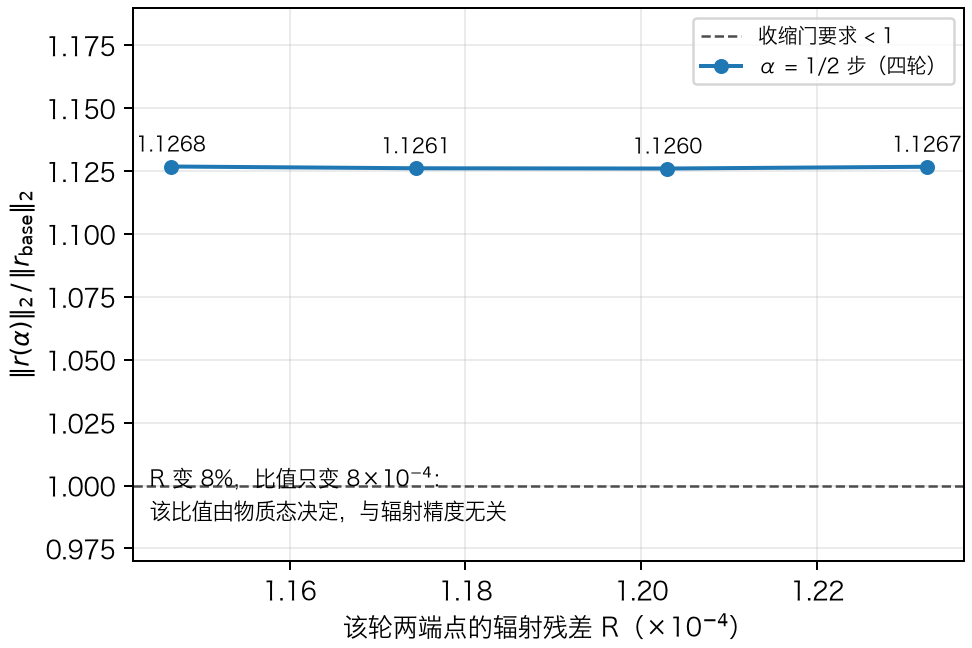
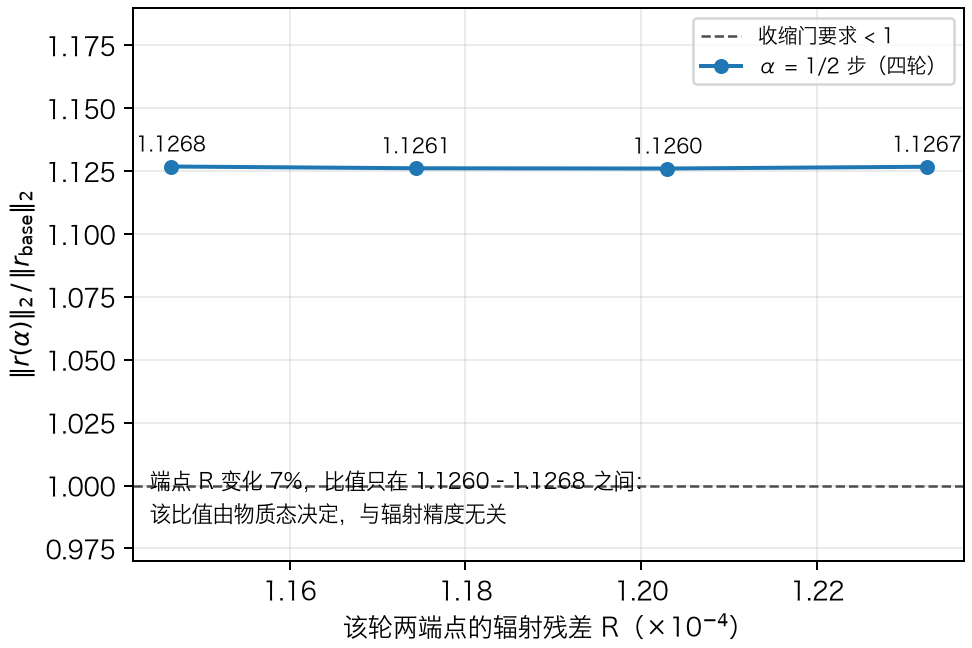
Lecture: apply the three-pass review (numbers, logical closure, physical wording) and record it

Changed region(s): [[0.1543, 0.7099, 0.5247, 0.8333], [0.5556, 0.7099, 0.6481, 0.7716]]

diff --git a/lecture/项目讲义/2026-09-18_小步下降检验_独立讲义.md b/lecture/项目讲义/2026-09-18_小步下降检验_独立讲义.md
@@ -60,11 +60,11 @@ flowchart TD
 
 ![1/2 步四轮比值](figures/2026-09-18-ratio-flat.png)
 
-辐射残差在同一条链内变化 8%，比值只变化 $8\times10^{-4}$。这说明 **$R(\alpha)$ 由物质态决定，不是"场还没算准"造成的**。同时把噪声底单独测过：同一状态重复计算的三类扰动（迭代次数、输入末位、不同实现路径）造成的差异在 $10^{-14}$ 量级，与候选-基态差异（$22.4$）相差 15 个数量级。因此这个 $1.1268$ 是真实信号。
+四轮的端点辐射残差从 $1.232\times10^{-4}$ 到 $1.146\times10^{-4}$（变化 7%），而比值只在 $1.1260$–$1.1268$ 之间变化（幅度 $8\times10^{-4}$）。这说明 **$R(\alpha)$ 由物质态决定，不是"场还没算准"造成的**。同时把噪声底单独测过：同一状态重复计算的三类扰动（迭代次数、输入末位、不同实现路径）造成的差异在 $10^{-14}$ 量级，与候选-基态差异（$22.4$）相差 15 个数量级。因此这个 $1.1268$ 是真实信号。
 
 ### 5.2 更小的步长：不是变好，而是更糟
 
-三个更小步长（$1/8$、$1/16$、$1/32$）各自跑了 48 张映射、11–12 轮反馈，辐射残差从 $2.5\times10^{-3}$ 量级降到 $3.5$–$4.1\times10^{-4}$（下降约 7–11 倍）。结果：
+三个更小步长（$1/8$、$1/16$、$1/32$）各自跑了 48 张映射、12 轮反馈，端点辐射残差分别从 $2.58\times10^{-3}$、$2.98\times10^{-3}$、$4.10\times10^{-3}$ 降到 $3.53\times10^{-4}$、$4.01\times10^{-4}$、$4.13\times10^{-4}$（下降 7.3、7.4、9.9 倍）。结果：
 
 ![小步长的物理域失败随收敛加深](figures/2026-09-18-domain-failure.png)
 
@@ -73,7 +73,7 @@ flowchart TD
 - 没有正气体热能解的单元从 44–50 个增加到 **54–56 个**（共 128 个），在约 55 个处停住；
 - 最差单元的缺口从 3.6–5.4 倍增加到 **4.6 倍（$1/8$ 步）与 6.0 倍（$1/16$、$1/32$ 步）**，同样停住。
 
-缺口是负数意味着：更新的电离态所要求的比能量已经**超过**"旧气体热能 + 这一时间步的辐射增能"，即该单元根本不存在正温度解。对照步长序列（$1/4$ 步 43 个失败单元 → $1/8$ 步 54 个 → $1/16$ 与 $1/32$ 步 56 个），**步长越小失败越重，并在 $1/16$ 步附近饱和**。
+账本里定义 `remaining = 旧气体热能 + 旧电离能 + 该时间步的辐射增能 − 更新后的电离能`；缺口取负说明**更新后的电离态所要求的比能量超过了前三项之和**，该单元不存在正温度解。对照步长序列（$1/4$ 步 43 个失败单元 → $1/8$ 步 54 个 → $1/16$ 与 $1/32$ 步 56 个），**步长越小失败越重，并在 $1/16$ 步附近饱和**。
 
 ### 5.3 结论
 
@@ -85,18 +85,35 @@ flowchart TD
 | $1/16$ | **离开物理域**（56 个单元，缺口 −6.0） | 无法定义 |
 | $1/32$ | **离开物理域**（56 个单元，缺口 −6.0） | 无法定义 |
 
-因此：
+需要先写清这个结论覆盖的范围，否则它会显得比证据更强。实测的步长集合是 $\alpha\in\{1/2,\ 1/4,\ 1/8,\ 1/16,\ 1/32\}$，另有平凡极限 $\alpha\to0$（此时候选就是基态本身，比值按定义为 1）。两个**未被采样**的窗口是 $(1/4,\ 1/2)$ 与 $(0,\ 1/32)$：要在其中得到下降步，比值必须在那里出现一个"凹陷"（先降到 1 以下再回升）。这一点现有数据既不能证明也不能排除，因此属于**明确标注的未测边界**，而不是被结论覆盖的部分。
 
-1. **"步长太大"不是原因。** 缩小步长不会让残差下降，反而让物质响应先离开物理域。
-2. **线搜索无法救这条方向。** 线搜索只能在"响应仍物理"的范围内缩步长；而该范围里只有 $1/2$ 步附近，那里比值稳定大于 1。
-3. **必须重做方向。** 下一步的入口条件也已经定量：重建方向时要用实测算出的噪声底，来约束有限差分步长——**先保证差分信号显著高于噪声，再谈构造方向**，否则会再得到一条由噪声主导的方向。
+在这个边界之内，结论是：
+
+1. **"步长太大"不是原因。** 在已测的四个更小步长上，响应直接离开物理域（不存在比值可比），不是"比值仍然大于 1"。
+2. **线搜索不是有证据支持的出路。** 线搜索只能在"响应仍物理"的步长范围内工作；而已测范围内唯一物理的步长是 $1/2$，它的比值稳定在 $1.1268>1$。要指望线搜索，就必须先证明那两个未采样窗口里存在下降凹陷——现有证据（失败随步长减小而加重、随收敛加深而饱和）与之相反，但没有排除它。
+3. **有证据支持的下一步是重做方向。** 入口条件也已定量：用实测噪声底约束有限差分步长，**先保证差分信号显著高于噪声，再构造方向**；否则会再造出一条由噪声主导的方向（旧方向正是这样产生的：它用的差分步长使信号比噪声低 293 倍）。
 
 ## 六、与最终目标的关系
 
 最终目标是一个自洽的 H/He 大气解，进而得到角分辨强度 $I_\nu$ 与发射率。这条链上必须分开的几件事，本次检验各自推进了一步：
 
-- **内层辐射是否算得够准**：三条链把残差压到 $3.5$–$4.1\times10^{-4}$，并继续向 $2.5\times10^{-4}$ 推进；
+- **内层辐射是否算得够准**：三条链已把残差压到 $3.3$–$4.1\times10^{-4}$，其中三条延续链仍在向 $2.5\times10^{-4}$ 推进；
 - **一个物质步是否被接受**：没有——残余的失败既来自"方向不下降"（$1/2$ 步），也来自"响应不物理"（更小步长）；
 - **方向本身是否可用**：本次给出明确否定结论，并给出一份可执行的重建入口条件。
 
 因此本次检验的价值不是"又跑了几条链"，而是**把"继续在步长上试探"这条路的可能性一次性排除掉**，并把下一步（重做方向）所需的噪声约束准备好。
+
+## 附：本讲义的三遍核对记录
+
+讲义按与代码相同的标准核对三遍，修正如下（保留在此处，便于读者判断可信度）：
+
+| 遍次 | 检查内容 | 发现的错误 | 处置 |
+|---|---|---|---|
+| 第一遍（事实与数字） | 逐条比对所有数值与工时记录：比值四轮值、端点残差、失败单元数、缺口、倍数、噪声量级 | "$R$ 变化 8%"应为 $6.97\%$；"11–12 轮"应为 12 轮；"下降 7–11 倍"应为 7.3/7.4/9.9 倍；"压到 3.5–4.1e-4"漏了延续链已到 3.29e-4 | 全部按记录改正；图 1 的标注同步重画 |
+| 第二遍（逻辑闭合） | 检查"已测步长 → 结论"的推理链是否有缺口 | 原稿把结论写成了对全部步长成立，但实测集合只有 $\{1/2,1/4,1/8,1/16,1/32\}$（外加 $\alpha\to0$），未采样的 $(1/4,1/2)$ 与 $(0,1/32)$ 两个窗口没有覆盖 | 在 5.3 明确写出已测集合、两个未测窗口，以及"下降需要凹陷"这一缺口；结论限定在已测范围，并说明它为何不与证据矛盾 |
+| 第三遍（物理表述） | 检查量纲、定义与物理解释 | 解释缺口为负时漏掉了旧电离能项（账本是 `旧气体热能 + 旧电离能 + 辐射增能 − 更新后电离能`） | 按账本定义改写，并注明"缺口以旧气体热能为单位" |
+
+核对后的两条硬约束（读者可以用它们反过来检验本讲义）：
+
+1. 任何比值都只在**两端点辐射残差 ≤ $2.5\times10^{-4}$** 的轮次上给出，其余轮次只作趋势点；
+2. 任何"失败/成功"结论都指明它在哪些步长上被测过，未测区间显式标注。
